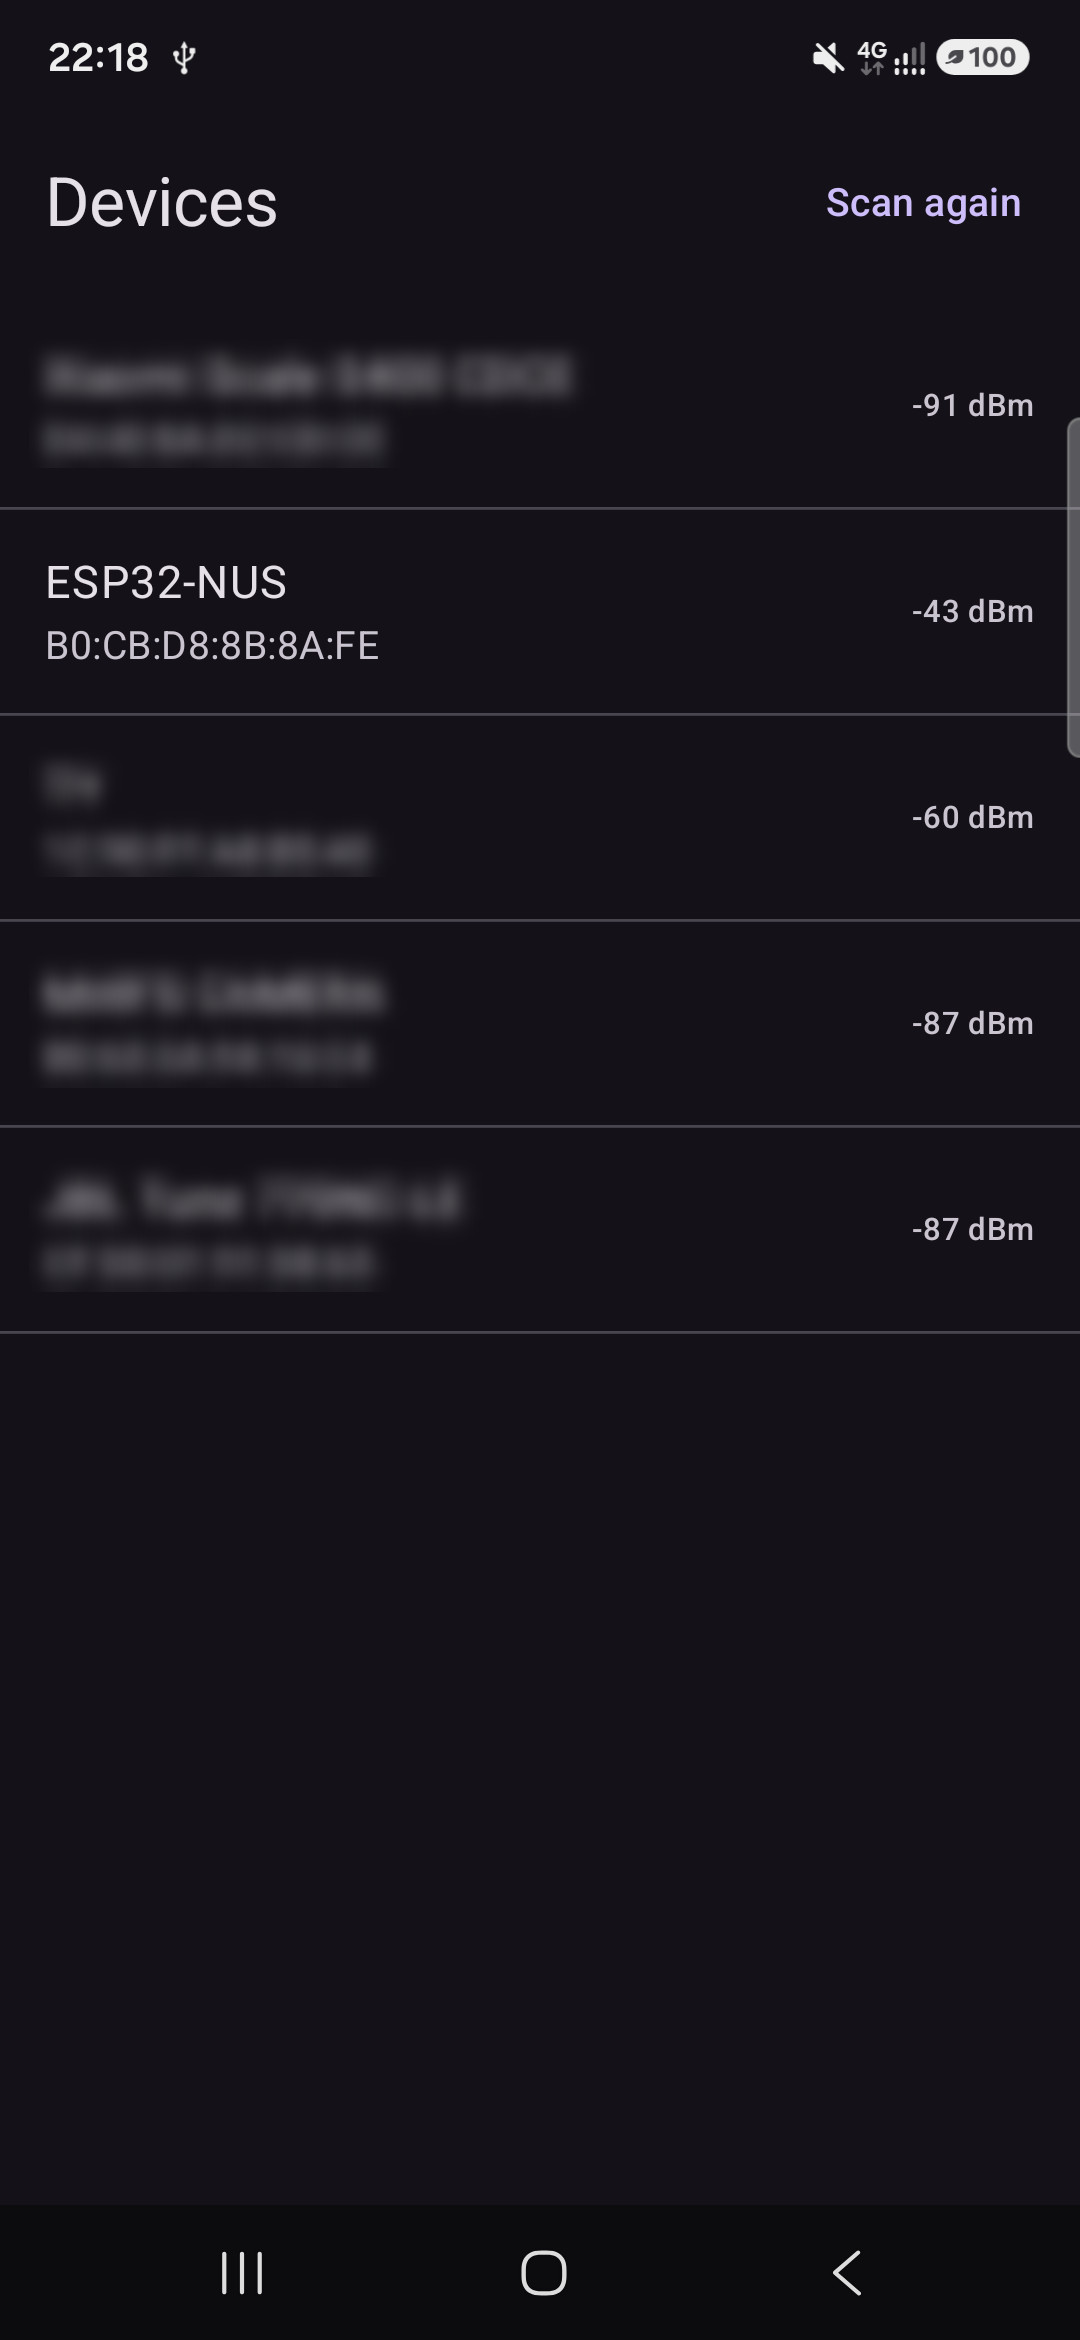
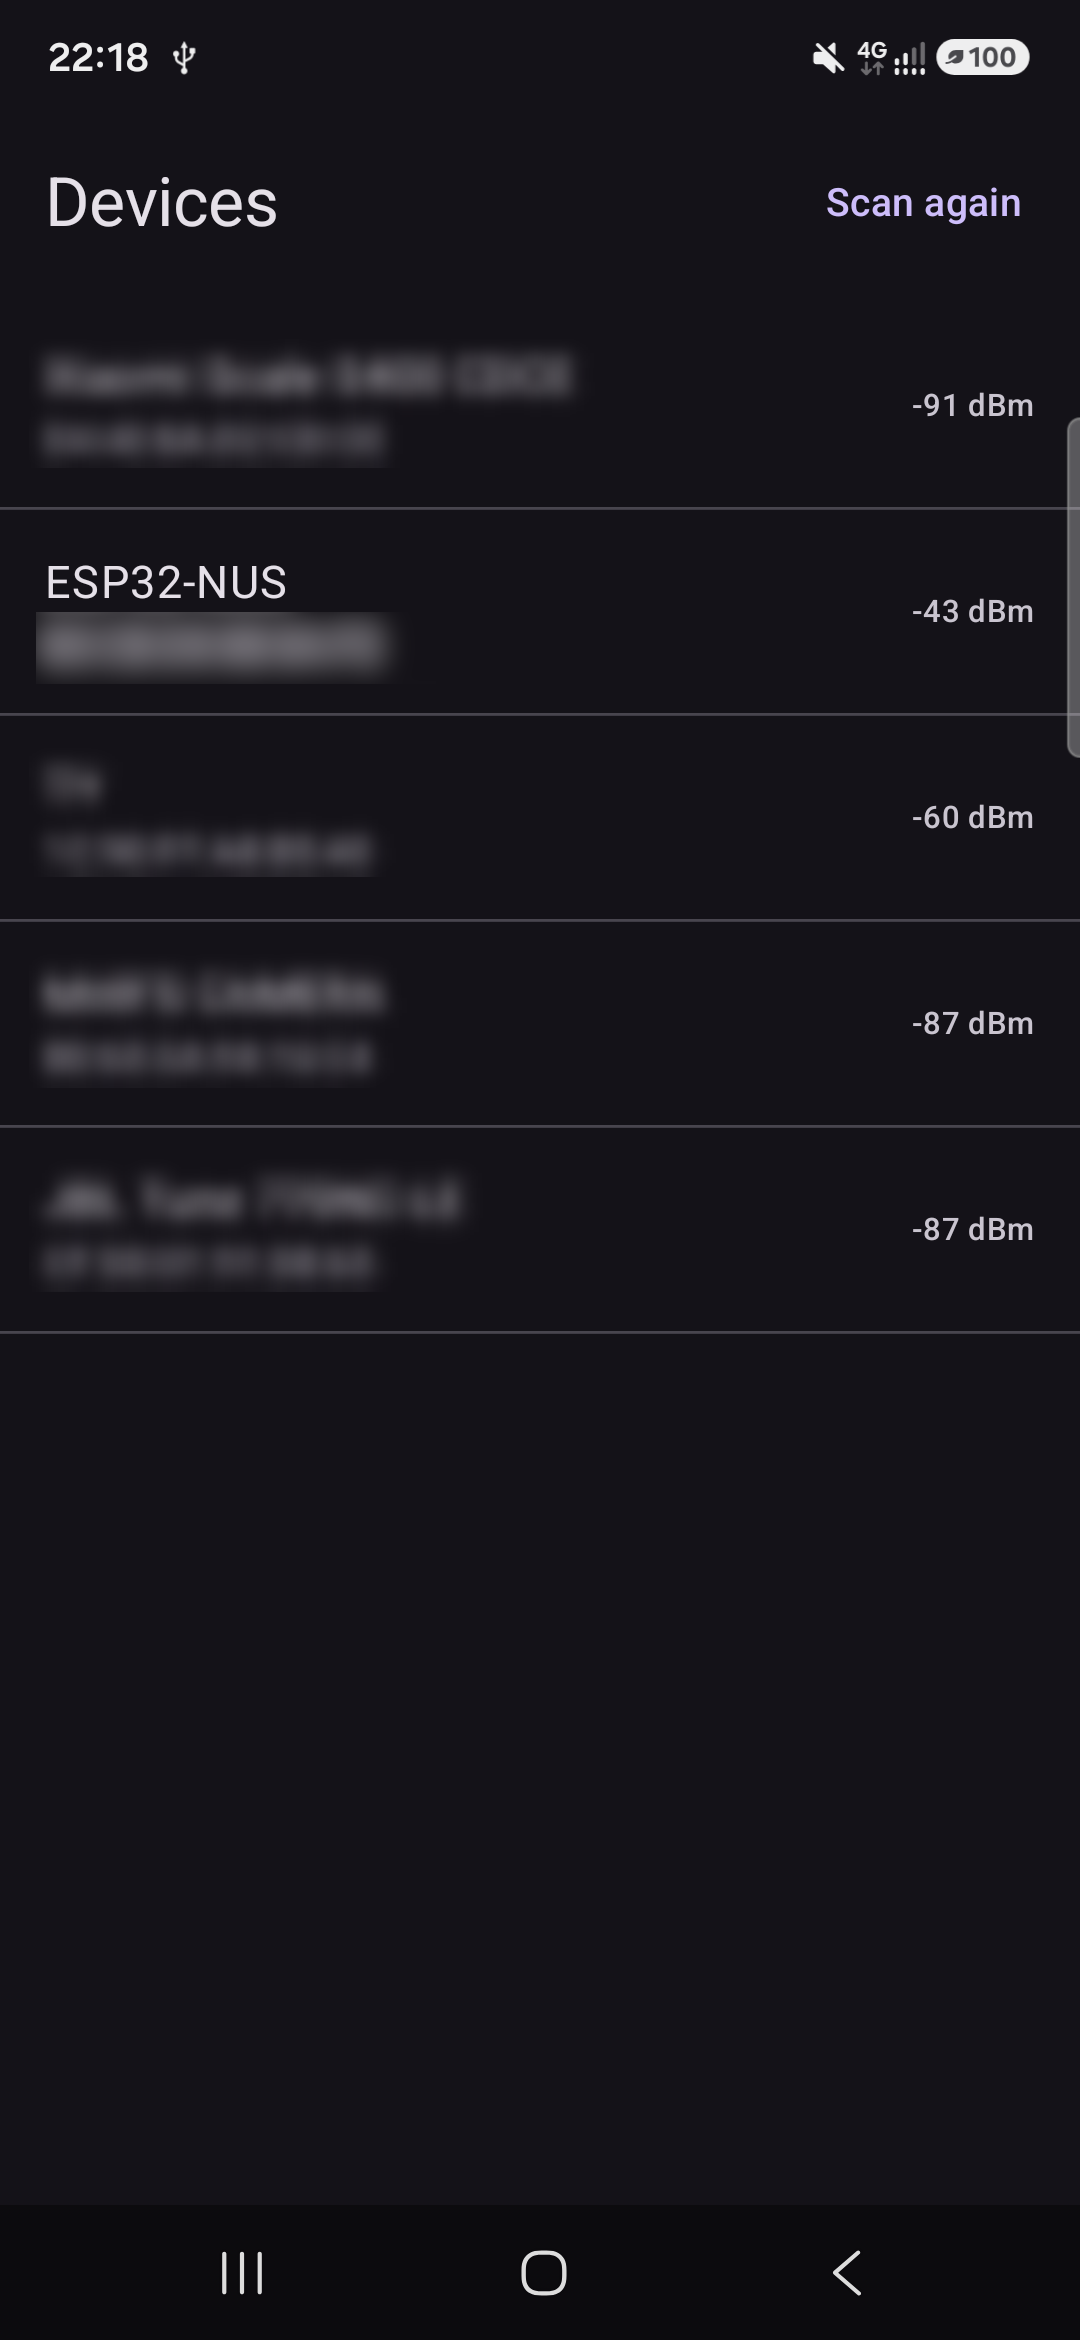
Blur the ESP32's MAC address in the Devices screenshot
The other nearby devices were already blurred; now no MAC address is
readable in the README screenshots.

Changed region(s): [[0.0306, 0.2496, 0.3667, 0.312]]

diff --git a/README.md b/README.md
@@ -10,7 +10,7 @@ is planned for Android only, because iOS has no public API for it.
 |---|---|---|
 | <img src="art/screenshots/devices.png" width="250" alt="Devices screen: nearby BLE devices with signal strength"> | <img src="art/screenshots/terminal.png" width="250" alt="Terminal screen: messages sent to and received from an ESP32 over Nordic UART"> | <img src="art/screenshots/settings.png" width="250" alt="Settings screen: services and characteristics, with the send target and listening choices"> |
 
-Android, connected to an ESP32 running the Nordic UART Service. Other people's nearby devices are blurred.
+Android, connected to an ESP32 running the Nordic UART Service. MAC addresses and other nearby devices are blurred.
 
 ## Features
 
